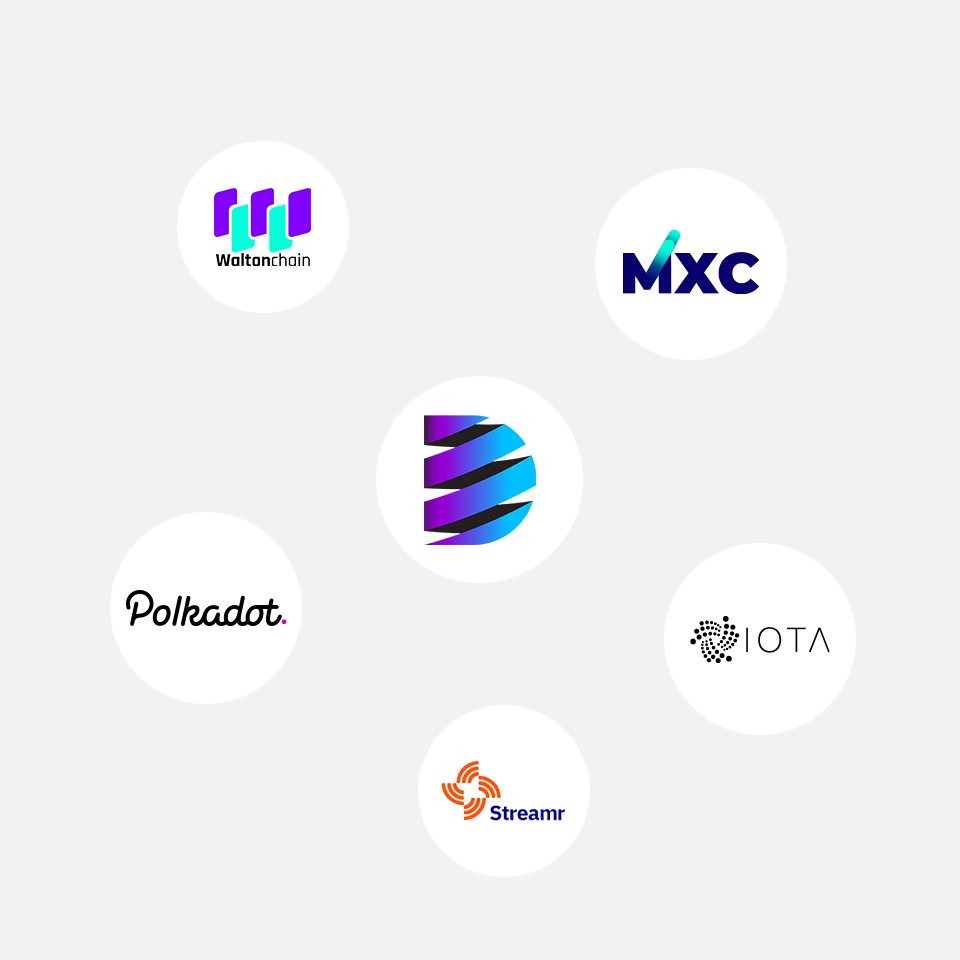
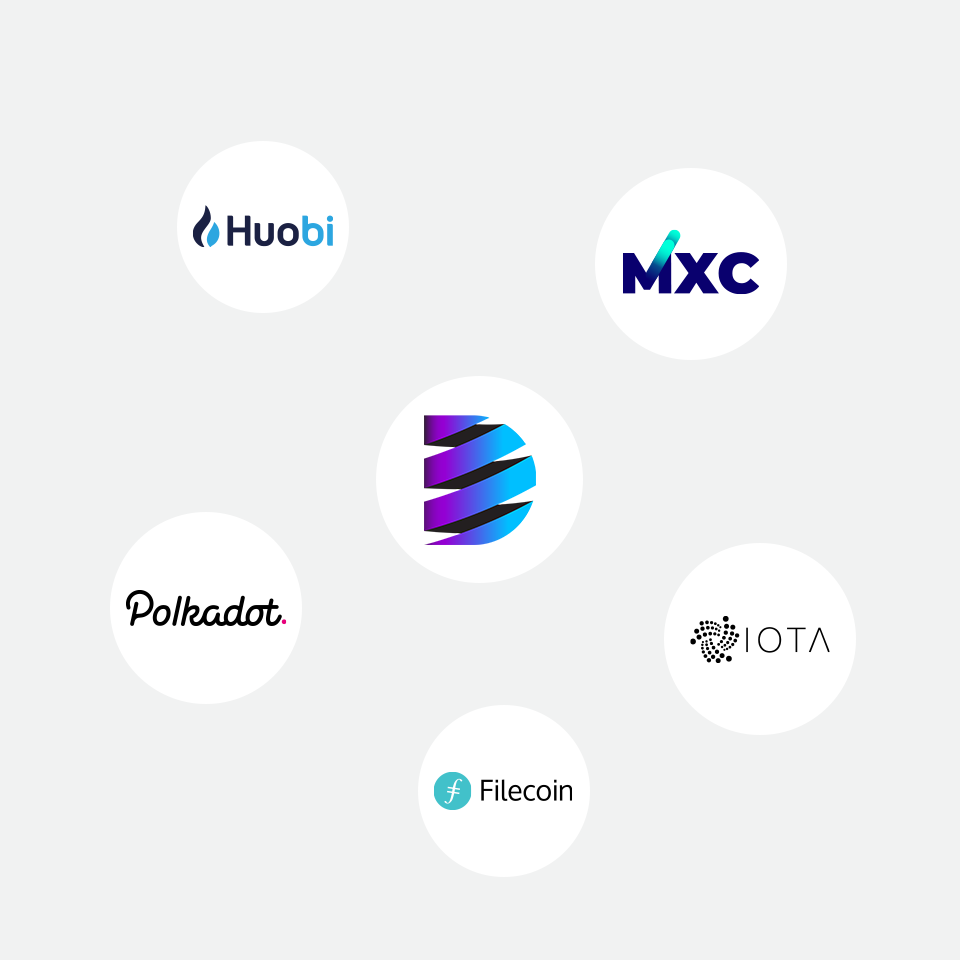
Update the supported tokens

Changed region(s): [[0.1875, 0.1875, 0.3438, 0.2812], [0.4375, 0.7812, 0.5938, 0.875]]

diff --git a/ko/index.html b/ko/index.html
@@ -123,7 +123,7 @@
                                 Data Highway 공인 IoT 토큰 또는 다른 부가 가치 토큰을 락업하는 것은 참가의 한 방법이며, 토큰 채굴이라 부릅니다. Data Highway 에 밸리데이터 또는 노미네이터로 스테이킹을 할 때, 토큰 채굴자는 더 많은량의 DHX 토큰을 받을 수 있는 스피드 부스트를 받게됩니다. 자격 조건은 초기에는 사전 설정된 기준을 기반으로 하지만, 추후에는 DAO 에 의해 락업 기간, 락업 토큰 수량, 참여 수준, 그리고 프로모션이 정해집니다. <br><br>
 
 Data Highway 의 공인 부가 가치 토큰은 다음과 같습니다:<br>
-<a href="https://www.mxc.org/" target="_blank"><u>MXC, </u></a><a href="https://www.iota.org/" target="_blank"><u>IoTA, </u></a><a href="https://polkadot.network/" target="_blank"><u>Polkadot, </u></a><a href="https://www.waltonchain.org/" target="_blank"><u>Waltonchain, </u></a><a href="https://streamr.network/" target="_blank"><u>Streamr </u></a>
+<a href="https://www.mxc.org/" target="_blank"><u>MXC, </u></a><a href="https://www.iota.org/" target="_blank"><u>IoTA, </u></a><a href="https://polkadot.network/" target="_blank"><u>Polkadot, </u></a><a href="https://filecoin.io/" target="_blank"><u>Filecoin, </u></a><a href="https://www.huobi.com/en-us/ht/" target="_blank"><u>Huobi Token </u></a>
 
                             </p>
                             <!-- <p>

diff --git a/ja/index.html b/ja/index.html
@@ -130,7 +130,7 @@
                                 the level of participation, and whether there is a promotion.<br><br>
 
                                 Data Highway's authorized value added tokens include:<br>
-                                <a href="https://www.mxc.org/" target="_blank"><u>MXC, </u></a><a href="https://www.iota.org/" target="_blank"><u>IoTA, </u></a><a href="https://polkadot.network/" target="_blank"><u>Polkadot, </u></a><a href="https://www.waltonchain.org/" target="_blank"><u>Waltonchain, </u></a><a href="https://streamr.network/" target="_blank"><u>Streamr </u></a>
+                                <a href="https://www.mxc.org/" target="_blank"><u>MXC, </u></a><a href="https://www.iota.org/" target="_blank"><u>IoTA, </u></a><a href="https://polkadot.network/" target="_blank"><u>Polkadot, </u></a><a href="https://filecoin.io/" target="_blank"><u>Filecoin, </u></a><a href="https://www.huobi.com/en-us/ht/" target="_blank"><u>Huobi Token </u></a>
 
                             </p>
                             <!-- <p>

diff --git a/index.html b/index.html
@@ -130,7 +130,7 @@
                                 the level of participation, and whether there is a promotion.<br><br>
 
                                 DataHighway's authorized value added tokens include:<br>
-                                <a href="https://www.mxc.org/" target="_blank"><u>MXC, </u></a><a href="https://www.iota.org/" target="_blank"><u>IoTA, </u></a><a href="https://polkadot.network/" target="_blank"><u>Polkadot, </u></a><a href="https://www.waltonchain.org/" target="_blank"><u>Waltonchain, </u></a><a href="https://streamr.network/" target="_blank"><u>Streamr </u></a>
+                                <a href="https://www.mxc.org/" target="_blank"><u>MXC, </u></a><a href="https://www.iota.org/" target="_blank"><u>IoTA, </u></a><a href="https://polkadot.network/" target="_blank"><u>Polkadot, </u></a><a href="https://filecoin.io/" target="_blank"><u>Filecoin, </u></a><a href="https://www.huobi.com/en-us/ht/" target="_blank"><u>Huobi Token </u></a>
 
                             </p>
                             <!-- <p>

diff --git a/zh-Hans/index.html b/zh-Hans/index.html
@@ -129,7 +129,7 @@
 但稍后将由DAO确定，例如锁仓期的长度、通证的数量、 参与级别，以及是否有提升。 <br><br>
 
 数据高速公路的授权增值通证包括：<br>
-<a href="https://www.mxc.org/" target="_blank"><u>MXC极域</u></a><a href="https://www.iota.org/" target="_blank"><u>IoTA、</u></a><a href="https://polkadot.network/" target="_blank"><u> Polkadot（波卡），</u></a><a href="https://www.waltonchain.org/" target="_blank"><u>沃尔顿链</u></a><a href="https://streamr.network/" target="_blank"><u>Streamr</u></a>
+<a href="https://www.mxc.org/" target="_blank"><u>MXC极域</u></a><a href="https://www.iota.org/" target="_blank"><u>IoTA、</u></a><a href="https://polkadot.network/" target="_blank"><u> Polkadot（波卡）, </u></a><a href="https://filecoin.io/" target="_blank"><u>Filecoin文件币, </u></a><a href="https://www.huobi.com/en-us/ht/" target="_blank"><u>火币积分</u></a>
 
                             </p>
                             <!-- <p>

diff --git a/zh-Hant/index.html b/zh-Hant/index.html
@@ -129,7 +129,7 @@
 但稍後將由DAO確定，例如鎖倉期的長度、通證的數量、參與級別，以及是否有提升。<br><br>
 
 數據高速公路的授權增值通證包括：<br>
-<a href="https://www.mxc.org/" target="_blank"><u>MXC極域</u></a><a href="https://www.iota.org/" target="_blank"><u>IoTA、</u></a><a href="https://polkadot.network/" target="_blank"><u> Polkadot（波卡），</u></a><a href="https://www.waltonchain.org/" target="_blank"><u>沃爾頓鏈</u></a><a href="https://streamr.network/" target="_blank"><u> Streamr</u></a>
+<a href="https://www.mxc.org/" target="_blank"><u>MXC極域</u></a><a href="https://www.iota.org/" target="_blank"><u>IoTA、</u></a><a href="https://polkadot.network/" target="_blank"><u> Polkadot（波卡）, </u></a><a href="https://filecoin.io/" target="_blank"><u>Filecoin文件幣, </u></a><a href="https://www.huobi.com/en-us/ht/" target="_blank"><u>火幣積分</u></a>
 
                             </p>
                             <!-- <p>
